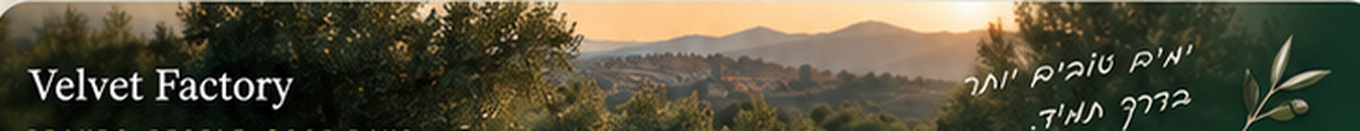
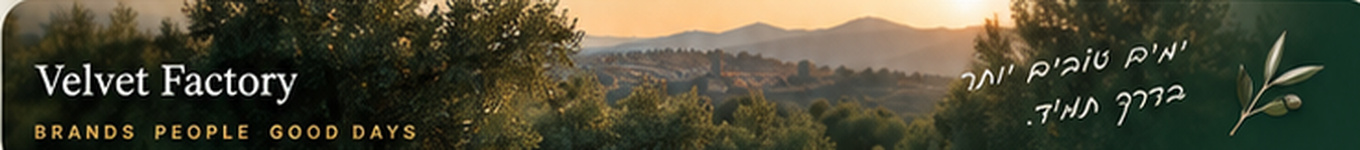
Tighten Morning Green mobile mockup fidelity

diff --git a/packages/vfbriefux/MORNING-GREEN.html b/packages/vfbriefux/MORNING-GREEN.html
@@ -17,15 +17,15 @@ td{mso-line-height-rule:exactly;word-break:normal;box-sizing:border-box} img{bor
  .vf-outer{padding-left:0!important;padding-right:0!important}.vf-gap{padding-left:10px!important;padding-right:10px!important}
  .vf-hero-copy{width:58%!important;padding:20px 18px 20px 14px!important}.vf-hero-photo{width:42%!important;padding:0!important}
  .vf-hero{font-size:31px!important;line-height:36px!important;letter-spacing:-.2px!important}.vf-hero-summary{font-size:13px!important;line-height:20px!important}
- .vf-hero-photo img{width:100%!important;max-width:420px!important;margin:0 auto!important;border-radius:22px 0 0 22px!important}
- .vf-story-copy{width:56%!important;padding:20px 18px 20px 14px!important}.vf-story-photo{width:44%!important;padding:10px 0 10px 10px!important}
- .vf-story-photo img{width:100%!important;max-width:460px!important;margin:0 auto!important;border-radius:16px!important}
+ .vf-hero-photo img{width:100%!important;max-width:420px!important;margin:0 auto!important;border-radius:22px 0 0 22px!important}.vf-hero-img{height:320px!important;object-fit:cover!important;object-position:center!important}
+ .vf-story-copy{width:56%!important;padding:20px 18px 20px 14px!important}.vf-story-photo{width:44%!important;padding:0 0 0 10px!important}
+ .vf-story-photo img{width:100%!important;max-width:460px!important;margin:0 auto!important;border-radius:18px!important}.vf-story-img{height:190px!important;object-fit:cover!important;object-position:left center!important}
  .vf-section{font-size:22px!important;line-height:28px!important}.vf-card-pad{padding-left:18px!important;padding-right:18px!important}
  .vf-week-day{padding-left:1px!important;padding-right:1px!important}.vf-feed-thumb{max-width:48px!important;height:52px!important}
  .vf-insta-metric{padding:14px 5px!important}.vf-insta-value{font-size:18px!important;line-height:23px!important}.vf-insta-label{font-size:9px!important;line-height:13px!important}
  .vf-stat{padding:17px 5px!important}.vf-stat-value{font-size:25px!important;line-height:31px!important}.vf-stat-label{font-size:10px!important;line-height:15px!important}
  .vf-item-cell{padding:11px 6px 3px!important}.vf-item-title{font-size:11px!important;line-height:16px!important}.vf-item-detail{font-size:9px!important;line-height:13px!important}
- .vf-radar-copy{width:48%!important;padding:18px 16px!important}.vf-radar-photo{width:52%!important}.vf-footer-pad{padding-left:10px!important;padding-right:10px!important}
+ .vf-radar-copy{width:48%!important;padding:18px 16px!important}.vf-radar-photo{width:52%!important}.vf-radar-img{height:132px!important;object-fit:cover!important;object-position:center!important}.vf-footer-pad{padding-left:10px!important;padding-right:10px!important}
 }
 </style>
 </head><body><div class="preheader">{{preheader}}</div>
@@ -44,7 +44,7 @@ td{mso-line-height-rule:exactly;word-break:normal;box-sizing:border-box} img{bor
 <div style="width:50px;border-top:2px solid #c7a566;margin-top:14px"></div>
 <div style="font-size:10px;line-height:15px;letter-spacing:1.5px;color:#d0aa65;font-weight:700;margin-top:7px">ימים טובים עושים יותר</div>
 </td>
-<td class="vf-hero-photo" width="42%" valign="middle" align="center" bgcolor="#15352b" style="padding:0"><img src="{{top_image_url}}" alt="{{top_image_alt}}" width="420" style="width:100%;max-width:420px;height:auto;border-radius:26px 0 0 26px"></td>
+<td class="vf-hero-photo" width="42%" valign="middle" align="center" bgcolor="#15352b" style="padding:0"><img class="vf-hero-img" src="{{top_image_url}}" alt="{{top_image_alt}}" width="420" style="width:100%;max-width:420px;height:auto;border-radius:26px 0 0 26px"></td>
 </tr></table>
 </td></tr><tr><td class="vf-gap" style="padding:0 10px 10px">
 <table role="presentation" width="100%" dir="rtl" bgcolor="#f8f3e9" style="width:100%;background:#f8f3e9;border-radius:22px;overflow:hidden;box-shadow:0 5px 18px rgba(55,43,21,.06)">
@@ -65,7 +65,7 @@ td{mso-line-height-rule:exactly;word-break:normal;box-sizing:border-box} img{bor
 <div class="vf-section" style="font-size:29px;line-height:35px;font-weight:700;color:#fff8ec;margin-top:8px;overflow-wrap:anywhere">{{story_title}}</div>
 <div style="font-size:14px;line-height:23px;color:#dfd7c6;margin-top:10px;overflow-wrap:anywhere">{{story_body}}</div>
 </td>
-<td class="vf-story-photo" width="44%" valign="middle" align="center" style="padding:10px 0 10px 10px"><img src="{{story_image_url}}" alt="{{story_image_alt}}" width="460" style="width:100%;max-width:460px;height:auto;border-radius:16px"></td>
+<td class="vf-story-photo" width="44%" valign="middle" align="center" style="padding:0 0 0 10px"><img class="vf-story-img" src="{{story_image_url}}" alt="{{story_image_alt}}" width="460" style="width:100%;max-width:460px;height:auto;border-radius:18px"></td>
 </tr></table></td></tr>
 <tr><td class="vf-gap" style="padding:0 10px 10px">
 <table role="presentation" width="100%" dir="rtl" bgcolor="#f3ebda" style="width:100%;background:#f3ebda;border-radius:22px"><tr><td class="vf-card-pad" dir="rtl" align="center" style="padding:18px 22px;color:#17372d;text-align:center">
@@ -88,7 +88,7 @@ td{mso-line-height-rule:exactly;word-break:normal;box-sizing:border-box} img{bor
 <div style="font-size:11px;line-height:17px;color:#8b8272;margin-top:3px">{{radar_title}}</div>
 <div style="font-size:13px;line-height:21px;color:#6d746e;margin-top:8px;overflow-wrap:anywhere">{{radar_text}}</div>
 </td>
-<td class="vf-radar-photo" width="52%" valign="middle" align="center" style="padding:8px 0 8px 8px"><img src="{{radar_image_url}}" alt="{{radar_image_alt}}" width="520" style="width:100%;max-width:520px;height:auto;border-radius:16px"></td>
+<td class="vf-radar-photo" width="52%" valign="middle" align="center" style="padding:8px 0 8px 8px"><img class="vf-radar-img" src="{{radar_image_url}}" alt="{{radar_image_alt}}" width="520" style="width:100%;max-width:520px;height:auto;border-radius:16px"></td>
 </tr></table></td></tr><tr><td class="vf-gap" style="padding:0 10px 10px">
 <table role="presentation" width="100%" dir="rtl" bgcolor="#15352b" style="width:100%;background:#15352b;border-radius:20px;overflow:hidden"><tr>{{stats_html}}</tr></table>
 </td></tr>

diff --git a/scripts/check-morning-green.py b/scripts/check-morning-green.py
@@ -41,7 +41,7 @@ def main() -> None:
         "#15352b", "#f8f3e9", "#eee8dc", "MORNING EDITION", "בקרוב בפיד", "7 הימים הקרובים", "Instagram", "מצב החשבון",
         "{{scheduled_posts_html}}", "{{instagram_metrics_html}}", "{{instagram_note}}", "{{attention_html}}", "{{progress_html}}",
         "{{stats_html}}", "max-width:680px", "@media only screen and (max-width:680px)", "vf-hero-copy", "vf-hero-photo",
-        "vf-feed-thumb", "vf-insta-value", "vf-stat-value", "vf-item-cell", "ימים טובים עושים יותר", "{{radar_title}}", "max-width:420px", "max-width:460px", "{{footer_image_url}}",
+        "vf-feed-thumb", "vf-insta-value", "vf-stat-value", "vf-item-cell", "vf-hero-img", "vf-story-img", "vf-radar-img", "ימים טובים עושים יותר", "{{radar_title}}", "max-width:420px", "max-width:460px", "{{footer_image_url}}",
     ):
         if token not in template:
             fail(f"MORNING-GREEN.html missing {token!r}")
@@ -60,7 +60,7 @@ def main() -> None:
     contract = (PACK / "MORNING-GREEN.md").read_text(encoding="utf-8")
     for token in (
         "scheduled != approved != published_verified",
-        "מתוזמן", "טרם שובץ", "OpenPost", "CID", "TARGET-CONCEPT", "QA חזותי",
+        "מתוזמן", "טרם שובץ", "OpenPost", "CID", "TARGET-CONCEPT", "QA חזותי", "VF-YYYYMMDD-NNN",
         "list_media/get_media", "owner-visible-text",
     ):
         if token not in contract:
@@ -112,14 +112,16 @@ def main() -> None:
     for token in ("'enabled':bool(args.enable)", "--enable", "embedRemoteImages", "PACK/'assets'/'morning-green'", "--thumbnail-dir", "morning-green-assets-"):
         if token not in preparer:
             fail(f"Morning Green preparer missing fail-closed send contract {token!r}")
-    for token in ("reader_friendly", "compact_overview", "compact_receivables", "ready_for_brief", "waiting_for_print_done", "lastMod", "thumbnail_cid", "no materialized/public thumbnail", "range(7)", "HE_DAY_SHORT", "extra_count", "instagram_snapshot", "מעורבות בפוסט האחרון", "Insights", "Instagram has its own dedicated analytics section", "דברים שכדאי לשים לב אליהם", "תודה שאתה חלק מהדרך"):
+    for token in ("reader_friendly", "compact_overview", "compact_attention", "compact_progress", "compact_receivables", "ready_for_brief", "waiting_for_print_done", "lastMod", "thumbnail_cid", "no materialized/public thumbnail", "range(7)", "HE_DAY_SHORT", "extra_count", "instagram_snapshot", "מעורבות בפוסט האחרון", "Insights", "Instagram has its own dedicated analytics section", "דברים שכדאי לשים לב אליהם", "תודה שאתה חלק מהדרך"):
         if token not in builder:
             fail(f"Morning Green builder missing reader-friendly/week-strip/Instagram mapping {token!r}")
     renderer=(PACK / "render_morning_green.py").read_text(encoding="utf-8")
     if "WEEK_DAYS = 7" not in renderer:
         fail("Morning Green renderer must enforce an exact seven-day feed strip")
-    if "mixed_text" not in renderer or "unicode-bidi:isolate" not in renderer:
+    if "mixed_text" not in renderer or "unicode-bidi:isolate" not in renderer or "<nobr" not in renderer or "&#8209;" not in renderer:
         fail("Morning Green renderer must isolate VF IDs for RTL mobile clients")
+    if "rows.reverse()" not in renderer:
+        fail("Morning Green KPI order must match the approved mockup visual order")
 
     proc = subprocess.run([sys.executable, str(PACK / "render_morning_green.py"), "--check"], cwd=ROOT, text=True, capture_output=True)
     if proc.returncode != 0:

diff --git a/packages/vfbriefux/build_morning_green.py b/packages/vfbriefux/build_morning_green.py
@@ -69,11 +69,32 @@ def compact_overview(text: str) -> str:
     """Keep the hero factual, short and non-duplicative like the approved mockup."""
     out=reader_friendly(text)
     out=re.sub(r'\s*Instagram חי:.*$', '', out).strip()
-    out=out.replace('כל חמש העבודות בגיליון VF HQ · jobs מסומנות כסופקו.','5 העבודות ב-VF HQ · jobs מסומנות כסופקו.')
-    out=out.replace('שלוש יתרות פתוחות מאומתות גם ב-VF HQ · books:','3 יתרות פתוחות ב-books:')
+    out=out.replace('כל חמש העבודות בגיליון VF HQ · jobs מסומנות כסופקו.','5 העבודות ב-jobs סופקו.')
+    out=out.replace('שלוש יתרות פתוחות מאומתות גם ב-VF HQ · books:','3 יתרות פתוחות:')
     out=out.replace('סך הגבייה הפתוחה 4790.','סך הגבייה 4790.')
     out=out.replace('ביומן יש אירוע אחד היום, דיאנה, שון, 16:00 עד 17:00 בבארי.','היום: דיאנה ושון, 16:00-17:00 בבארי.')
     return re.sub(r'\s{2,}',' ',out).strip()
+
+def compact_attention(items: list[dict[str,str]]) -> list[dict[str,str]]:
+    out=[dict(x) for x in items[:4]]
+    if out and out[0].get('title','').startswith('גבייה פתוחה אצל '):
+        people=out[0]['title'].removeprefix('גבייה פתוחה אצל ').rstrip('.')
+        out[0]={'title':'גבייה פתוחה','detail':people}
+    return out
+
+def compact_progress(items: list[dict[str,str]]) -> list[dict[str,str]]:
+    out=[]
+    for item in items[:3]:
+        title=str(item.get('title') or '').strip()
+        detail=str(item.get('detail') or '').strip()
+        if title.startswith('ביומן של 23.9 יש אירוע אחד'):
+            title='אירוע אחד היום - דיאנה ושון, 16:00-17:00 בבארי'
+            detail=''
+        elif title.startswith('הגבייה הפתוחה נשארה 4790'):
+            title='הגבייה הפתוחה נשארה 4790'
+            detail=''
+        out.append({'title':title,'detail':detail})
+    return out
 
 def compact_receivables(items: list[dict[str,str]]) -> str:
     """Compress repeated receivable details for the Story card without losing amounts/status."""
@@ -230,8 +251,8 @@ def main() -> int:
     sec=sections(text)
     op=json.loads(a.openpost.read_text(encoding='utf-8')) if a.openpost and a.openpost.exists() else None
 
-    attention=[split_title_detail(x) for x in sec['צריך ממך'][:4]]
-    progress=[split_title_detail(x) for x in sec['מה השתנה מאז הבריף הקודם'] if 'Instagram' not in x and 'OpenPost' not in x][:3]
+    attention=compact_attention([split_title_detail(x) for x in sec['צריך ממך'][:4]])
+    progress=compact_progress([split_title_detail(x) for x in sec['מה השתנה מאז הבריף הקודם'] if 'Instagram' not in x and 'OpenPost' not in x][:3])
     radar_lines=[
         clean_bullet(reader_friendly(x)) for x in sec['רדאר תוכן']
         if 'OpenPost' not in x and 'Instagram' not in x and 'הפיד האחרון' not in x and 'אין Publish' not in x

diff --git a/packages/vfbriefux/render_morning_green.py b/packages/vfbriefux/render_morning_green.py
@@ -30,7 +30,10 @@ def esc(value: object) -> str:
 def mixed_text(value: object) -> str:
     """Escape text, then isolate machine IDs so RTL clients never break them mid-token."""
     out=esc(value)
-    return re.sub(r'(VF-\d{9,})', r'<span dir="ltr" style="white-space:nowrap;unicode-bidi:isolate;overflow-wrap:normal;word-break:keep-all;font-size:9px;letter-spacing:-.2px">\1</span>', out)
+    def repl(match: re.Match[str]) -> str:
+        safe_id=match.group(1).replace('-', '&#8209;')
+        return f'<nobr dir="ltr" style="white-space:nowrap;unicode-bidi:isolate;overflow-wrap:normal;word-break:keep-all;font-size:9px;letter-spacing:-.2px">{safe_id}</nobr>'
+    return re.sub(r'(VF-\d{8}-\d{3})', repl, out)
 
 def safe_image(value: object, allow_local: bool = False) -> str:
     raw = str(value or "").strip()
@@ -156,6 +159,7 @@ def stat_cells(stats: object) -> str:
     rows = list(stats or [])[:3]
     while len(rows) < 3:
         rows.append({"value":"אין נתון","label":""})
+    rows.reverse()
     cells: list[str] = []
     for idx, stat in enumerate(rows):
         cls = "vf-stat vf-stat-last" if idx == 2 else "vf-stat"

diff --git a/CHANGELOG.md b/CHANGELOG.md
@@ -9,7 +9,7 @@ and this project adheres to [Semantic Versioning](https://semver.org/spec/v2.0.0
 
 - 2026-09-23 — **Cognee → Grok Bot scheduler cutover staged fail-closed:** owner requested `Cognee Memory Sync` (daily 06:30) and `Cognee Stable Updates` (Monday 10:00) move from ChatGPT scheduling to the protected Grok Bot scheduler. Added `automation/grok/cognee-routines.json` with locked prompts, cadence, timezone and exact ChatGPT automation IDs. Provider activation is explicitly pending live Grok readback; ChatGPT copies remain enabled until both Grok routines are proven created/enabled with matching intent, then only those two copies may be disabled. No Git/manifest change is treated as provider proof.
 
-- 2026-09-23 — **Morning Green approved-mockup template fidelity:** rebuilt the real 09:00 email template around the owner-approved target concept instead of treating a generated mockup as the deliverable. The email canvas is warm cream with independent rounded cards; Hero and Story stay split green editorial compositions on mobile; attention/progress become compact horizontal rows; KPI/footer styling follows the approved concept. The four decorative CID assets were replaced with higher-resolution photographic crops from the approved concept language, eliminating the low-resolution/illustrated placeholder feel. Real Gmail iPhone QA then drove a second fidelity pass: hero/story copy was compacted, Instagram/OpenPost duplication was removed from progress/radar, progress returned to three columns, VF IDs gained RTL isolation, the radar hierarchy and closing line were restored, and visual QA is now required to rebuild from canonical factual sources instead of re-rendering stale intermediate JSON. The visual contract explicitly treats TARGET-CONCEPT fidelity and no illustrated placeholders as regression gates while preserving live jobs/books/calendar/OpenPost/Instagram data semantics.
+- 2026-09-23 — **Morning Green approved-mockup template fidelity:** rebuilt the real 09:00 email template around the owner-approved target concept instead of treating a generated mockup as the deliverable. The email canvas is warm cream with independent rounded cards; Hero and Story stay split green editorial compositions on mobile; attention/progress become compact horizontal rows; KPI/footer styling follows the approved concept. The four decorative CID assets were replaced with higher-resolution photographic crops from the approved concept language, eliminating the low-resolution/illustrated placeholder feel. Real Gmail iPhone QA then drove two fidelity passes: hero/story copy was compacted, Instagram/OpenPost duplication was removed from progress/radar, progress returned to three columns, VF IDs gained explicit non-breaking RTL isolation, Hero/Story/Radar image fill was tightened for mobile, KPI order was corrected to the approved visual order, the full footer brand line was restored from TARGET-CONCEPT, and visual QA is now required to rebuild from canonical factual sources instead of re-rendering stale intermediate JSON. The visual contract explicitly treats TARGET-CONCEPT fidelity and no illustrated placeholders as regression gates while preserving live jobs/books/calendar/OpenPost/Instagram data semantics.
 
 - 2026-09-23 — **Cognee Windows state-pointer cutover:** moved the live derived-index pointer to `~/.velvetos/cognee/active-state.json` after repeated Windows delete-sharing locks prevented atomic replacement of the legacy `state.json`. The old file is retained untouched as rollback evidence; the new pointer still uses same-directory unique temp files, `fsync`, bounded replace retries and readback verification, so no non-atomic fallback was introduced.
 

diff --git a/packages/vfbriefux/MORNING-GREEN.md b/packages/vfbriefux/MORNING-GREEN.md
@@ -16,6 +16,7 @@
 - הרצועה מציגה תמיד את 7 הימים הקרובים, עמודה לכל יום, עם thumbnail קטן + שעה/סוג רק כשיש schedule חי; יום ללא פרסום נשאר תא שקט ולא מומצא.
 - `Instagram` הוא מדור נפרד ללא thumbnails: עוקבים, מעורבות מאומתת בפוסט האחרון, שינוי מאז הבריף הקודם, והערת Insights/Reach רק אם המקור מספק אותם.
 - QA חזותי אחרי שינוי תבנית חייב להריץ מחדש את `build_morning_green.py` ממקורות ה־brief העובדתיים + OpenPost העדכני. אסור לבדוק תבנית חדשה על JSON ביניים היסטורי ששמר כפילויות/מבנה ישן.
+- במובייל מזהי `VF-YYYYMMDD-NNN` חייבים להישאר יחידה אחת ולא להישבר באמצע. כרטיסי Hero/Story/Radar צריכים לשמור יחס חזותי מלא מול ה־TARGET, וה־KPI מוצגים חזותית משמאל לימין: גבייה, אירועים, ייצור.
 
 ## אמת בפרסום
 
